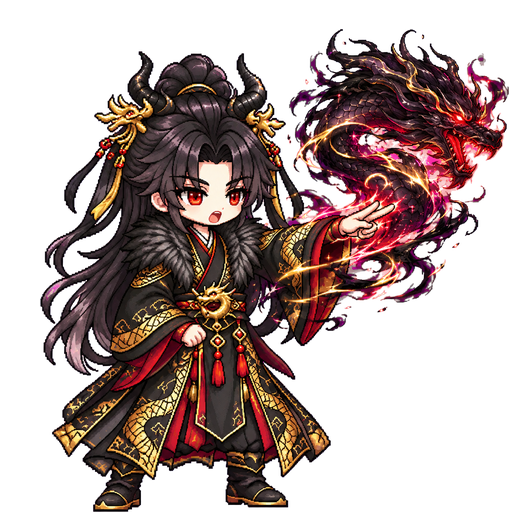
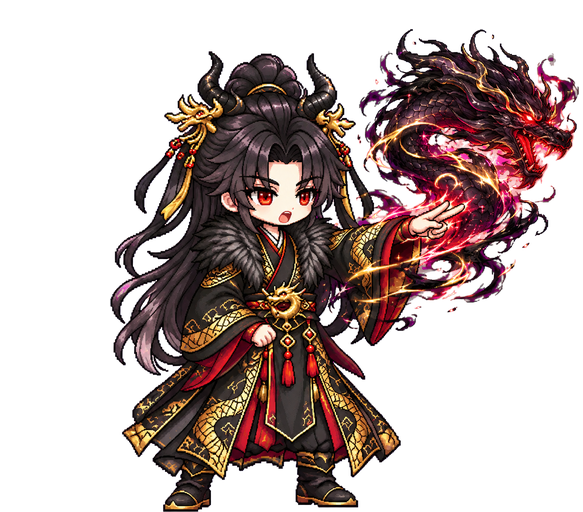
Sửa lệch bệ Hắc Long, dịch thú/quái vào trong, hỗ trợ ảnh ra lệnh rộng

diff --git a/game-moi/index.html b/game-moi/index.html
@@ -263,7 +263,7 @@ canvas{position:fixed;left:0;top:0;image-rendering:pixelated;image-rendering:cri
    Thứ tự vẽ: nền -> khung -> thú -> thanh máu -> hiệu ứng (thú nằm TRÊN khung nên chân thú không bị viền che). Chưa có ảnh khung thì vẽ viền vàng mảnh tạm.
    Lưu riêng (khóa ttg_moi_v1 = bậc bạn bm / bậc địch be), KHÔNG nối online/Firebase.
    AUTO BATTLE: trận tự đánh liên tục. Một bên hết máu -> hiện Thắng/Thua ~1.2s -> làm mới 2 bên -> đánh tiếp.
-   VỊ TRÍ THÚ: cố định theo tỉ lệ khung (PET_X = 0.218 bề ngang khung, đúng chỗ dưới nút "Chọn thú" lúc này), KHÔNG neo vào nút nào để sau này đổi/bỏ nút không ảnh hưởng.
+   VỊ TRÍ THÚ: cố định theo tỉ lệ khung (PET_X = 0.27 bề ngang khung, dịch vào trong từ 0.218 để chừa chỗ cho nhân vật/phụ kiện, đúng chỗ dưới nút "Chọn thú" lúc này), KHÔNG neo vào nút nào để sau này đổi/bỏ nút không ảnh hưởng.
    Thú bên phải đối xứng với thú trái qua tâm khung (1 - PET_X).
    ĐỔI BẬC: 2 nút "Bạn: bậc N" và "Địch: bậc N" (id tm, te), bấm để xoay vòng 1 -> 2 -> 3 -> 1 (MAXB = 3).
    Nút mới thêm vào danh sách sẽ tự xếp vào chỗ trống cuối thanh dưới, KHÔNG làm mất bố cục đã sắp xếp.
@@ -275,7 +275,7 @@ canvas{position:fixed;left:0;top:0;image-rendering:pixelated;image-rendering:cri
 if(window.TTG_BLOCK)return;
 var cv=document.getElementById('g'),ctx=cv.getContext('2d'),sa=document.getElementById('sa');
 var ID=(/[?&]thu=(\w+)/.exec(location.search)||[])[1];if(!window.THU_MOI||!THU_MOI.byId[ID])ID=null;var KEY='ttg_moi_v1',LKEY='ttg_moi_layout_v1',W=640,H=360,K=1,DPR=1,I={l:0,r:0,t:0,b:0},bm=1,be=1,st,BATTLE=null,A=null,typing=false;
-var AUTO=true,nextAt=0,GAP=450,GAP_ACT=225,ATK_MS=2400,TD_K=100,CLASH_MS=60,HOA_MAX=2,T_DON=750,END_WAIT=1200,PET_X=.218,MAXB=3,SCENE=/[?&]canh=tran/.test(location.search)?'tran':'sanh';/* SCENE: 'sanh' = sảnh chính (mặc định, 1 thú đứng giữa) | 'tran' = trận mẫu (nút Đấu trường bật/tắt, hoặc thêm ?canh=tran vào link) */
+var AUTO=true,nextAt=0,GAP=450,GAP_ACT=225,ATK_MS=2400,TD_K=100,CLASH_MS=60,HOA_MAX=2,T_DON=750,END_WAIT=1200,PET_X=.27,MAXB=3,SCENE=/[?&]canh=tran/.test(location.search)?'tran':'sanh';/* SCENE: 'sanh' = sảnh chính (mặc định, 1 thú đứng giữa) | 'tran' = trận mẫu (nút Đấu trường bật/tắt, hoặc thêm ?canh=tran vào link) */
 var NHN={ok:false,im:new Image()};NHN.im.onload=function(){NHN.ok=true;};NHN.im.src='game-moi/nen-hang-nut.png?v=1';/* nền khung dưới (thanh nút): ảnh game-moi/nen-hang-nut.png, phủ kín + canh giữa; chưa nạp được thì dùng dải màu */
 var BP=98,GAPB=0,FLOOR=22,FSC=.48,FL=null,frOK=false;/* BP = cao khung dưới (nút); GAPB = khe giữa 2 khung; FLOOR = bề dày nền đất trong khung trên; FSC = tỉ lệ vẽ khung trên */
 /* Độ lấn của khung ra ngoài mép màn hình (px ảnh khung gốc, nhân tỉ lệ vẽ khi dùng). Tăng = khung sát mép hơn nhưng cắt bớt họa tiết góc; đặt 0 = như cũ. Dải viền ngoài của ảnh dày khoảng 16px (trên) và 20px (hai bên). */

diff --git a/game-moi/84b-nhan-vat-sanh.js b/game-moi/84b-nhan-vat-sanh.js
@@ -222,12 +222,12 @@ CFG.tran={
   nang:9,                  /* nâng chân ngang chân thú (thú trong trận cũng được nâng PET_LIFT=16) */
   gap:100,                 /* cách tâm thú về phía SAU thú (bên trái) bao nhiêu điểm; tăng = đứng xa thú hơn */
   le:30,                     /* chừa lề trái khung (viền khung + nửa thân) */
-  petX:.218,floor:22,      /* = PET_X và FLOOR trong index.html (vị trí thú bạn trong khung trên, độ dày nền đất) */
+  petX:.27,floor:22,       /* = PET_X và FLOOR trong index.html (vị trí thú bạn trong khung trên, độ dày nền đất) */
   lenhU:.5,lenhTre:180,    /* giữ dáng ra lệnh khi đòn của thú chạy tới u<lenhU (0..1), rồi giữ thêm bấy nhiêu ms */
   vao:450                  /* hiện dần + trượt vào lúc vào trận (ms) */
 };
 var TR={seen:0,t0:0,lenh:0,was:false,hop:null,x:null,fy:0};
-function tranSrc(loai){var N=root.TTGNHANVAT;if(!N||!N.gioi)return null;var g=N.gioi(),s=N.skin();if(N.daMo&&!N.daMo(g,s))s='mac-dinh';return 'game-moi/nhan-vat/'+(N.thuMuc?N.thuMuc(g,s):g)+'/'+s+'-tran-'+loai+'.png?v=1';}
+function tranSrc(loai){var N=root.TTGNHANVAT;if(!N||!N.gioi)return null;var g=N.gioi(),s=N.skin();if(N.daMo&&!N.daMo(g,s))s='mac-dinh';return 'game-moi/nhan-vat/'+(N.thuMuc?N.thuMuc(g,s):g)+'/'+s+'-tran-'+loai+'.png?v=2';}
 function tranImg(loai){
   var src=tranSrc(loai);if(!src)return null;var e=IMG[src];
   if(!e){e=IMG[src]={img:new Image(),ok:false,bad:false};e.img.onload=function(){e.ok=true;};e.img.onerror=function(){e.bad=true;};e.img.src=src;}
@@ -251,7 +251,8 @@ function drawTran(c,ts,da){
   c.save();c.globalAlpha=al;
   c.fillStyle='rgba(0,0,0,.28)';c.beginPath();c.ellipse(x-slide,fy-1,k*.22,k*.05,0,0,Math.PI*2);c.fill();   /* bóng dưới chân */
   c.imageSmoothingEnabled=true;
-  c.drawImage(img,0,0,512,512,x-slide-k/2,fy+k*.03+oy-k,k,k);
+  var iw=img.naturalWidth||512;   /* ảnh rộng hơn 512 (vd ra-lenh có hiệu ứng lớn): vẫn đặt thân đúng chỗ cũ, phần thừa tràn sang phải */
+  c.drawImage(img,0,0,iw,512,x-slide-k/2,fy+k*.03+oy-k,k*iw/512,k);
   c.restore();}
 /* bọc 2 hàm có sẵn để không phải sửa index.html; hàm gốc vẫn chạy đủ (chỉ thêm 1 bước phụ phía trước) */
 function hookFx(){var A=root.TTGCombatFX;if(!A||!A.drawAttack)return false;if(A.drawAttack.__nv)return true;

diff --git a/game-moi/90-nhan-vat-bang.js b/game-moi/90-nhan-vat-bang.js
@@ -8,7 +8,7 @@
 (function(root){
 'use strict';
 if(root.TTG_BLOCK)return;
-var SW=1406,SH=768,D='game-moi/',V='?v=3',DIR=D+'nhan-vat/',KEYK='ttg_moi_nhanvat_khoa_v1';
+var SW=1406,SH=768,D='game-moi/',V='?v=4',DIR=D+'nhan-vat/',KEYK='ttg_moi_nhanvat_khoa_v1';
 var BOX={
   close:{x:1268,y:14,w:120,h:104},
   ten:{x:227,y:135,w:295,h:33},                 /* thanh vàng đầu cột trái: biệt danh */

diff --git a/game-moi/GHI_CHU.md b/game-moi/GHI_CHU.md
@@ -207,3 +207,8 @@ Nút **Khung: HD 256 / 128** (cùng hàng với nút đổi bậc): bấm để 
 
 ## Skin "Hắc Long Tôn Giả" (26/11/2026)
 - id `hac-long-ton-gia-nam`, tên "Hắc Long Tôn Giả", ảnh `nhan-vat/nam/hac-long-ton-gia-nam-*.png` (đủ bộ: chon, map, di-truoc/phai/sau, tran-tu-the, tran-ra-lenh, 4-goc-nhin). Khai trong `SKINS.nam`; ai cũng mặc được. Cỡ căn theo sprite nam mặc định. Nâng version 64b `?v=14`. Ảnh trận tư thế và ra lệnh đứng cùng vị trí chân; ra lệnh có rồng lửa lớn nên nhân vật dịch trái hơn các skin khác.
+
+## Chỉnh 26/11/2026 (sau khi thử Hắc Long Tôn Giả)
+- Bảng Nhân Vật lệch bệ: do ảnh `tran-tu-the` của skin bị dịch trái để chừa chỗ rồng lửa. Quy tắc: `tran-tu-the` luôn đặt thân GIỮA ảnh 512 (bbox giữa ở x=256). `tran-ra-lenh` có thể RỘNG HƠN 512 (cao vẫn 512), thân đặt trùng tâm chân với tu-the, hiệu ứng tràn sang phải; code 84b vẽ theo `naturalWidth` nên ảnh 512 cũ không đổi.
+- Trong trận dịch thú/quái vào trong để chừa chỗ cho nhân vật và phụ kiện sau này: PET_X .218 -> .27 (index.html, thú phải đối xứng 1-PET_X) và CFG.tran.petX .27 (84b). Nhân vật đứng theo thú (pet - gap) nên cũng dịch vào theo. Muốn sát/xa hơn thì sửa 2 số này CÙNG LÚC.
+- Nâng cache: ảnh trận `?v=2` (84b), bảng Nhân Vật `?v=4` (90).
